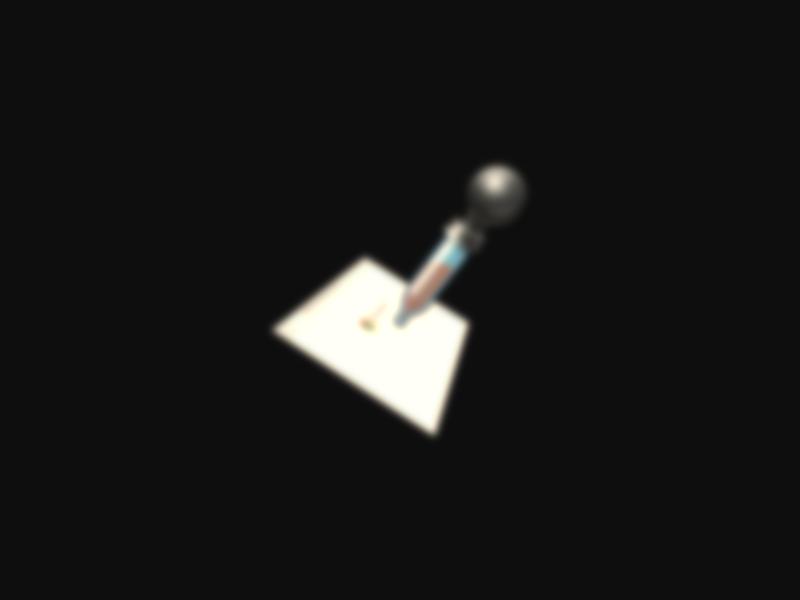
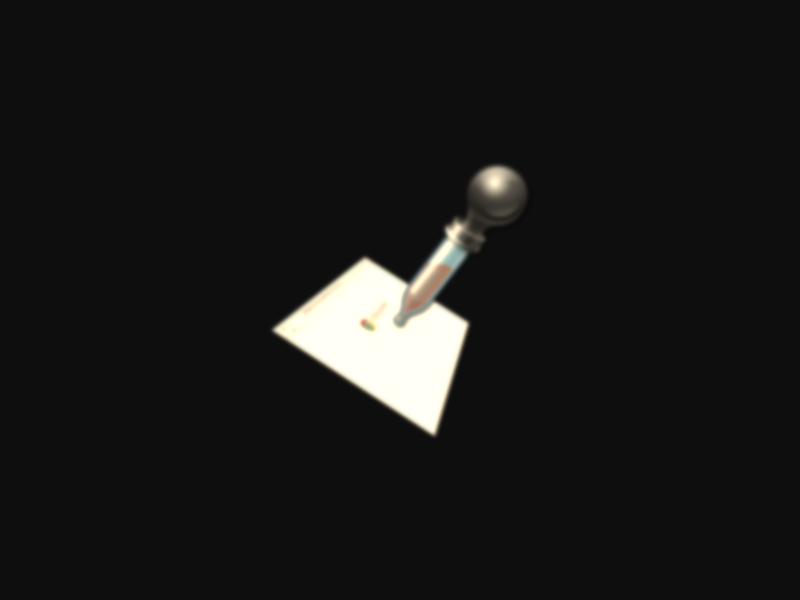
local images

diff --git a/editor.js b/editor.js
@@ -2,20 +2,22 @@ const pupp = require('puppeteer')
 const fs = require('fs')
 const path = require('path')
 
+const local = 'localhost:8080'
 let browser = null
 let page = null
 let img = null
-let fx = {
+let styleFX = {
 
 }
 const defaults = {
     filter: {blur: '', brightness: 1, contrast: 1, 'drop-shadow': '', grayscale: 0, 'hue-rotate': '', invert: 0, opacity: 1, saturate: 1, sepia: 0}
 }
 const editor = {
-    open: async(imgPath='') => {
+    open: async(img='', localhost=false) => {
+        img = localhost ? `${local}/${img}` : img;
         browser = await pupp.launch({headless: false});
         [page] = await browser.pages();
-        await page.goto(imgPath, {timeout: 10000})
+        await page.goto(img, {timeout: 20000})
         await page.waitFor('img')
     },
     filter: (options = {blur: '', brightness: 1, contrast: 1, drop_shadow: '', grayscale: 0, hue_rotate: '', invert: 0, opacity: 1, saturate: 1, sepia: 0}) => {
@@ -27,9 +29,9 @@ const editor = {
             }
         }
         if(functions.length) {
-            fx.filter = `${functions.join(' ')}`
+            styleFX.filter = `${functions.join(' ')}`
         } else {
-            fx.filter = 'none'
+            styleFX.filter = 'none'
         }
     },
     apply: async() => {
@@ -38,11 +40,11 @@ const editor = {
             for(let prop in fx) {
                 img.style[prop] = fx[prop]
             }
-        }, fx)
+        }, styleFX)
     },
     save: async(imgName='screenshot') => {
         fs.mkdirSync(path.join(__dirname, 'images'), {recursive: true})
-        await page.screenshot({path: path.join(__dirname, 'images', `${imgName}.png`)})
+        await page.screenshot({path: path.join(__dirname, 'images', `${imgName}_${Object.keys(styleFX).join('_')}.png`)})
         browser.close()
     }
 }

diff --git a/index.js b/index.js
@@ -1,14 +1,15 @@
+const localServer = require('./local')
 const editor = require('./editor')
 
-editor.open('https://www.colorzilla.com/images/colorzilla-for-chrome.png')
+editor.open('imageScreenshot.png', true)
     .then(() => {
         // define styles effects
-        editor.filter({blur: '4px', sepia: 0.4})
+        editor.filter({blur: '2px', sepia: 0.6})
     })
     .catch(console.error)
     .finally(() => {
         // apply styles
         editor.apply()
-        // screenshots the page
+        // screenshots the image
         editor.save('filter')
     })

diff --git a/local.js b/local.js
@@ -1,0 +1,15 @@
+const static = require('node-static')
+const http = require('http')
+const path = require('path')
+const PORT = 8080
+const FOLDER = 'images'
+let file = new(static.Server)(path.join(__dirname, FOLDER))
+
+http.createServer(function (req, res) {
+    // transmit request to static for serving images
+    file.serve(req, res).addListener('error', (err) => {
+        console.error(`Error file ${req.url} - ${err.message}`)
+    })
+}).listen(PORT, () => {
+    console.log(`http serving files from ${FOLDER} on port: ${PORT}`)
+});
